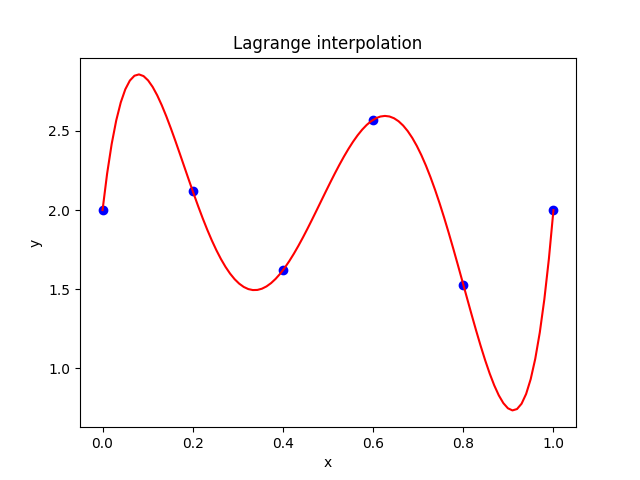
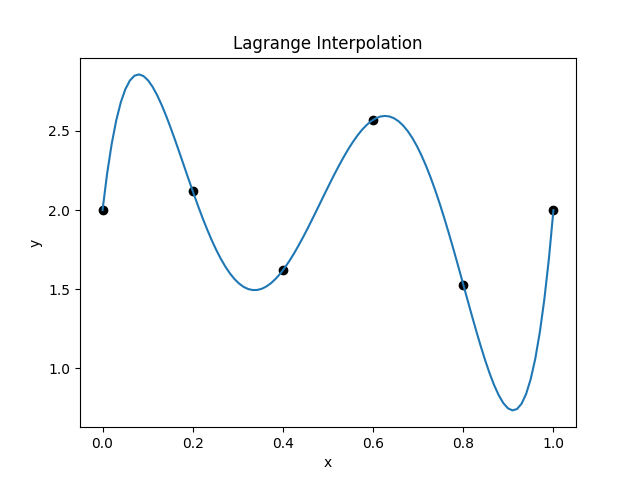
Update: introduced formatter for 05/

diff --git a/05/lagrange_interpolation.py b/05/lagrange_interpolation.py
@@ -1,18 +1,22 @@
 # written by NARITA, Fumiya
+# Lagrange補間を用いて，与えられた6点(0.0, 2.0), (0.2, 2.12), (0.4, 1.62), (0.6, 2.57), (0.8, 1.53), (1.0, 2.0)から5次多項式を求める
 # 必要なモジュールをインポート
+import matplotlib.pyplot as plt
 import numpy as np
 import sympy as sp
-import matplotlib.pyplot as plt
+from nptyping import Float, NDArray, Shape
 
-def lix(xs, i, x):
+
+def lix(xs: NDArray[Shape["1, 6"], Float], i: int, x: sp.Symbol) -> sp.Expr:
     """Lagrange補間で用いるl_i(x)関数
 
     Args:
-        xs: x座標のリスト
-        x: 変数
-        i: 添え字
+        xs (NDArray[Shape["1, 6"]): x座標のリスト
+        i (int): 添え字
+        x (sp.Symbol): 変数
 
-    Returns: l_i(x)
+    Returns:
+        sp.Expr: l_i(x)
     """
     numerator, denominator = 1.0, 1.0
     for k in range(len(xs)):
@@ -23,14 +27,18 @@ def lix(xs, i, x):
     return numerator / denominator
 
 
-def lagrange(x, xs, ys):
+def lagrange(
+    x: sp.Symbol, xs: NDArray[Shape["1, 6"], Float], ys: NDArray[Shape["1, 6"], Float]
+) -> sp.Expr:
     """Lagrange補間を用いて(n-1)次多項式を求める
 
     Args:
-        xs: x座標のリスト
-        ys: y座標のリスト
+        x (sp.Symbol): 変数
+        xs (NDArray[Shape["1, 6"], Float]): x座標のリスト
+        ys (NDArray[Shape["1, 6"], Float]): y座標のリスト
 
-    Returns: 補間した多項式
+    Returns:
+        sp.Expr: 補間した多項式
     """
     # Lagrange補間で用いるl_i(x)を求める
     lixs = [lix(xs, i, x) for i in range(len(xs))]
@@ -43,21 +51,21 @@ def lagrange(x, xs, ys):
 # 変数xを定義する
 x = sp.Symbol("x")
 # x座標
-xs = np.array((0.0, 0.2, 0.4, 0.6, 0.8, 1.0))
+xs = np.array([0.0, 0.2, 0.4, 0.6, 0.8, 1.0])
 # y座標
-ys = np.array((2.0, 2.12, 1.62, 2.57, 1.53, 2.0))
+ys = np.array([2.0, 2.12, 1.62, 2.57, 1.53, 2.0])
 
-# Lagrange補間を用いて，6点から5次多項式を求める
+# Lagrange補間を用いて，与えられた6点から5次多項式を求める
 polynomial = lagrange(x, xs, ys)
 print(polynomial)
 
 # 求めた多項式のグラフを描画する
 xplots = np.linspace(0.0, 1.0, 100)
 yplots = [polynomial.subs(x, xi) for xi in xplots]
-plt.title("Lagrange interpolation")
+plt.title("Lagrange Interpolation")
 plt.xlabel("x")
 plt.ylabel("y")
-plt.scatter(xs, ys, color="blue")
-plt.plot(xplots, yplots, color="red")
-plt.savefig("./img/lagrange.png")
+plt.scatter(xs, ys, color="black")
+plt.plot(xplots, yplots)
+plt.savefig("./05/img/lagrange.png")
 plt.show()

diff --git a/05/regresion_line.py b/05/regresion_line.py
@@ -1,24 +1,30 @@
-#Written by TAGAWATakara and NARITA, Fumiya
-#必要なモジュールをインポート
-import numpy as np #np.dot(x, y) xyの内積をとる関数。
+# Written by TAGAWATakara and NARITA, Fumiya
+# 与えられた6点(0.0, 2.0), (0.2, 2.12), (0.4, 1.62), (0.6, 2.57), (0.8, 1.53), (1.0, 2.0)から回帰直線を求める
+# 必要なモジュールをインポート
 import matplotlib.pyplot as plt
-#座標をx、yそれぞれベクトルとして定義
-x = np.array([0.0,0.2,0.4,0.6,0.8,1.0]) # 内積計算のためにnp.arrayで作る。
-y = np.array([2.0,2.12,1.62,2.57,1.53,2.0])
+import numpy as np  # np.dot(x, y) xyの内積をとる関数。
 
-#計算内容を関数として定義
+# 座標をx、yそれぞれベクトルとして定義
+x = np.array([0.0, 0.2, 0.4, 0.6, 0.8, 1.0])  # 内積計算のためにnp.arrayで作る。
+y = np.array([2.0, 2.12, 1.62, 2.57, 1.53, 2.0])
+
+# 計算内容を関数として定義
 def reg1dim(x, y):
     n = len(x)
-    a = ((np.dot(x, y)- y.sum() * x.sum()/n)/
-        ((x ** 2).sum() - x.sum()**2 / n))
-    b = (y.sum() - a * x.sum())/n
+    a = (np.dot(x, y) - y.sum() * x.sum() / n) / ((x**2).sum() - x.sum() ** 2 / n)
+    b = (y.sum() - a * x.sum()) / n
     return a, b
-#計算結果をabとして入れ込む
+
+
+# 計算結果をabとして入れ込む
 a, b = reg1dim(x, y)
-#y=ax+bのパラメータabを表示
-print(a,b)
-#グラフを描画
+# y=ax+bのパラメータabを表示
+print(a, b)
+# グラフを描画
+plt.title("Linear Regression")
+plt.xlabel("x")
+plt.ylabel("y")
 plt.scatter(x, y, color="k")
-plt.plot([0, x.max()], [b, a * x.max() + b]) #(0, b)地点から(xの最大値,ax + b)地点までの線
-plt.savefig("./img/regression.png")
+plt.plot([0, x.max()], [b, a * x.max() + b])  # (0, b)地点から(xの最大値,ax + b)地点までの線
+plt.savefig("./05/img/regression.png")
 plt.show()
